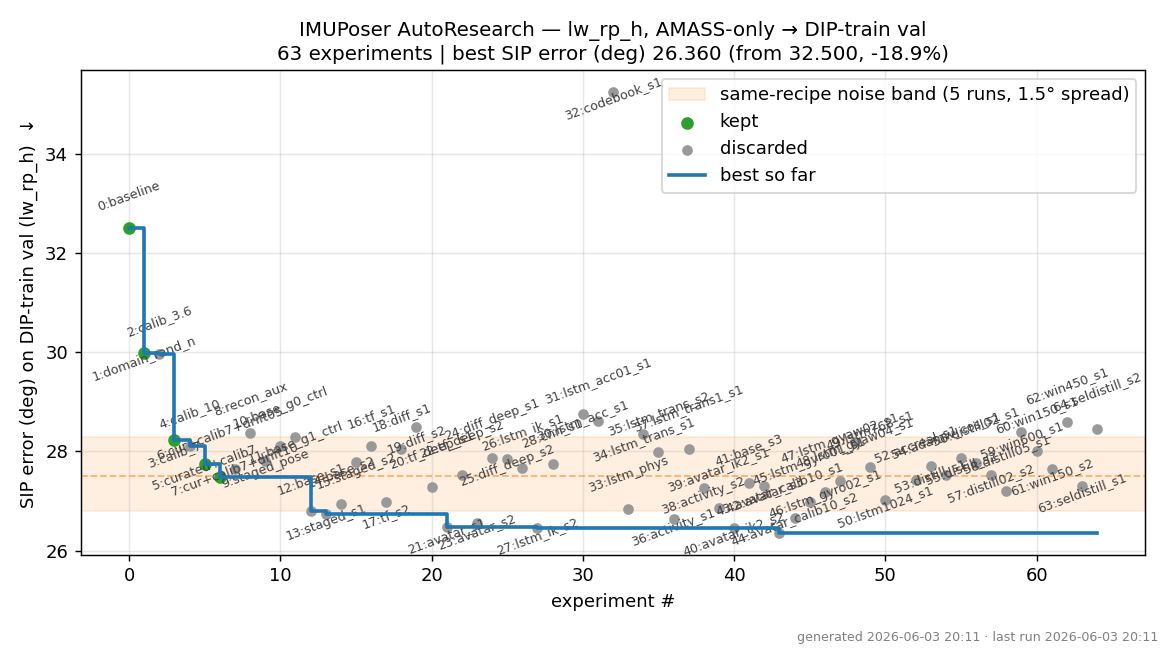
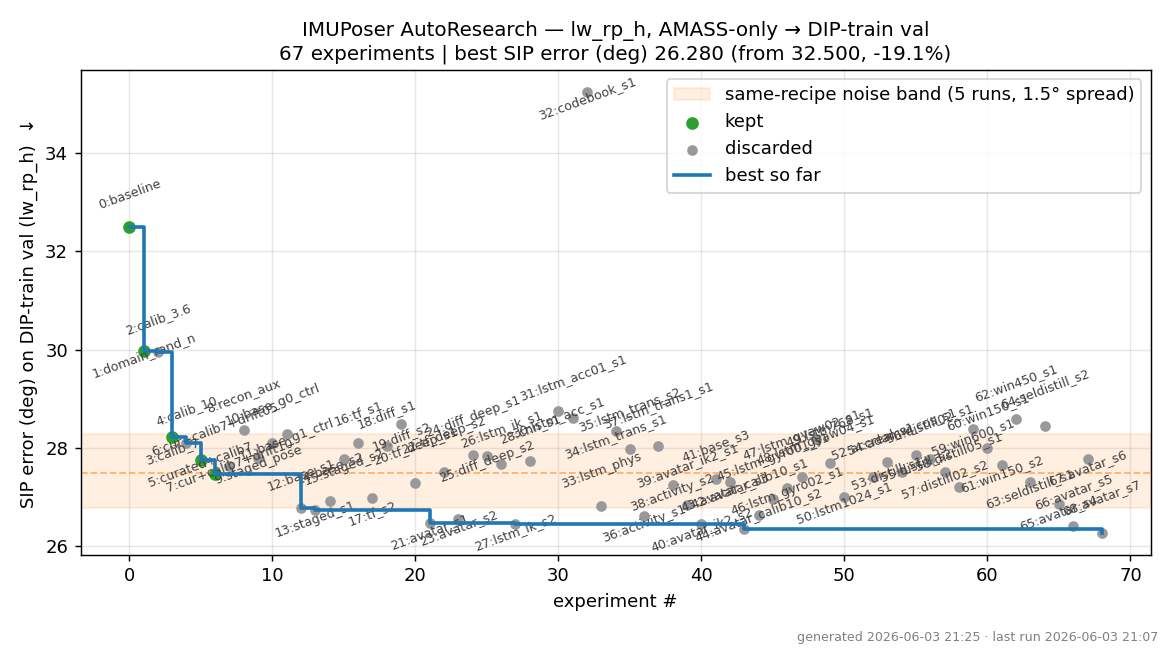
Add env-gated SIP-weighted pose loss (SIP_LOSS_W) + record clean s2
SIP_LOSS_W>0 adds an MSE term on the r6d of the 4 SIP joints [1,2,16,17] (L/R hip,
L/R shoulder) that dominate the reported SIP metric. Default OFF (byte-for-byte baseline).
exp79 tests SIP_LOSS_W=2.0 vs clean baseline (mean 25.98 SIP). clean s2 best-val 25.87/22.76.

diff --git a/src/imuposer/models/LSTMs/IMUPoser_Model.py b/src/imuposer/models/LSTMs/IMUPoser_Model.py
@@ -72,6 +72,14 @@ class IMUPoserModel(pl.LightningModule):
         self.acc_scale = config.acc_scale
         self.register_buffer("imu_joints", torch.tensor([18, 19, 1, 2, 15]), persistent=False)
 
+        # Optional SIP-weighted pose loss (SIP_LOSS_W>0): add an extra MSE term on the r6d of the
+        # 4 SIP joints ([1,2,16,17] = L/R hip, L/R shoulder) that dominate the reported SIP metric,
+        # so the optimizer spends more capacity where the headline error lives. Default OFF.
+        self.sip_w = float(os.environ.get("SIP_LOSS_W", "0"))
+        self.register_buffer("_sip_dims",
+                             torch.tensor([d for j in (1, 2, 16, 17) for d in range(j * 6, j * 6 + 6)]),
+                             persistent=False)
+
         if config.loss_type == "mse":
             self.loss = nn.MSELoss()
         else:
@@ -131,6 +139,8 @@ class IMUPoserModel(pl.LightningModule):
             target_joint = self.bodymodel.forward_kinematics(pose=r6d_to_rotation_matrix(target_pose).view(-1, 216))[1] ## If training is slow, get this from the dataloader
             joint_pos_loss = self.loss(pred_joint, target_joint)
             loss += joint_pos_loss
+        if self.sip_w:
+            loss = loss + self.sip_w * self.loss(pred_pose[..., self._sip_dims], target_pose[..., self._sip_dims])
         if self.ik_loss:
             loss = loss + self._ik_consistency(imu_inputs, pred_pose)
         if self.acc_loss:
@@ -163,6 +173,8 @@ class IMUPoserModel(pl.LightningModule):
             target_joint = self.bodymodel.forward_kinematics(pose=r6d_to_rotation_matrix(target_pose).view(-1, 216))[1] ## If training is slow, get this from the dataloader
             joint_pos_loss = self.loss(pred_joint, target_joint)
             loss += joint_pos_loss
+        if self.sip_w:
+            loss = loss + self.sip_w * self.loss(pred_pose[..., self._sip_dims], target_pose[..., self._sip_dims])
         if self.ik_loss:
             loss = loss + self._ik_consistency(imu_inputs, pred_pose)
         if self.acc_loss:
